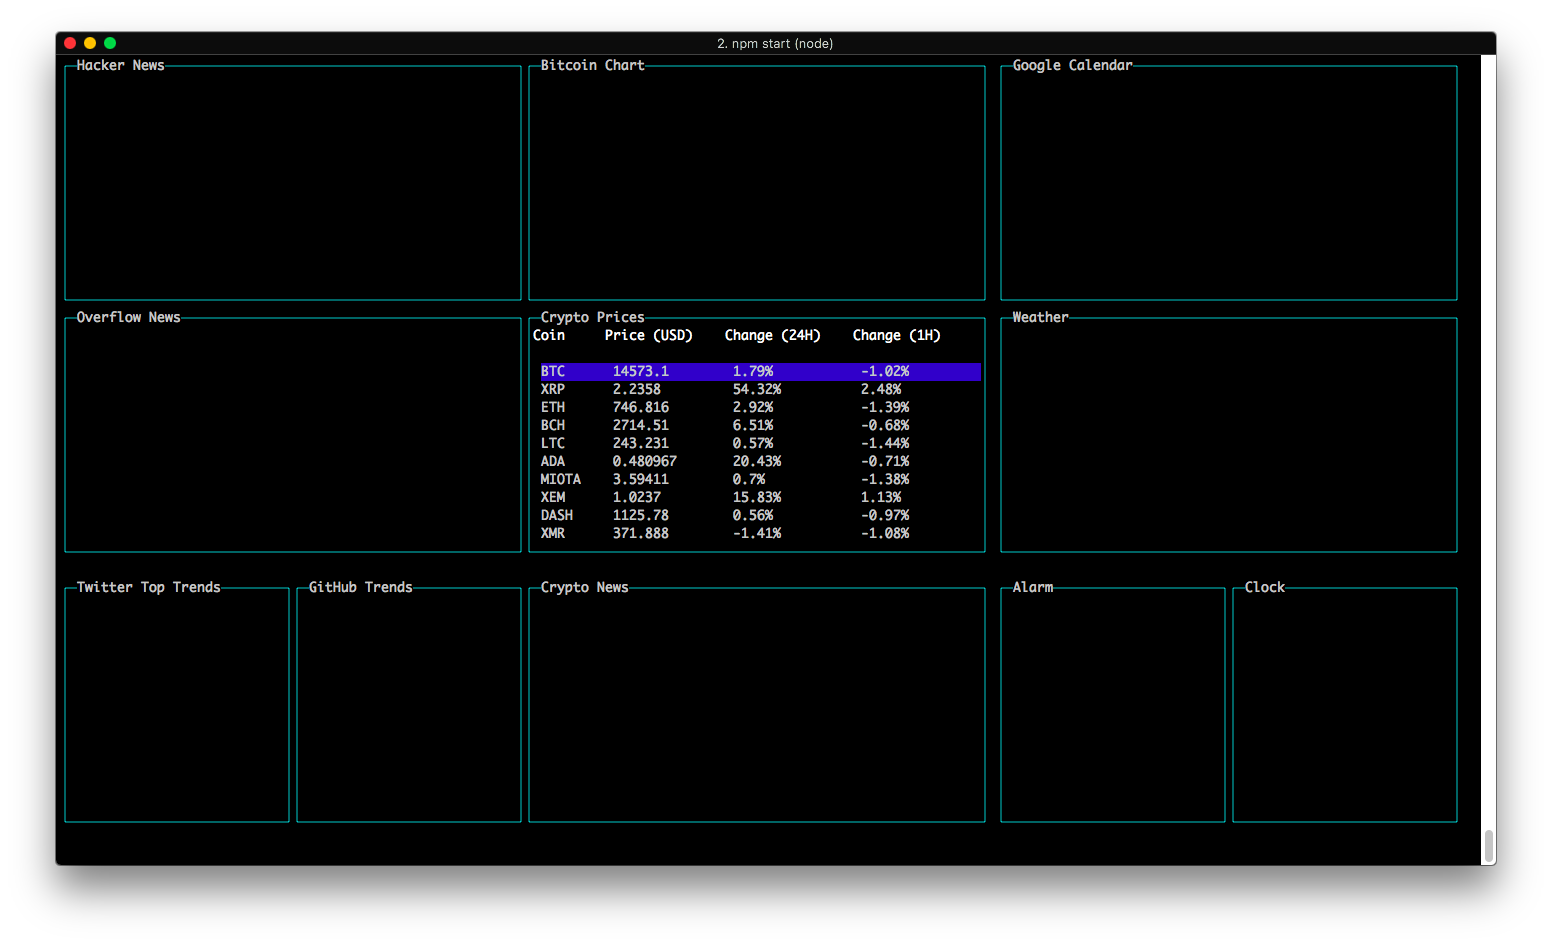
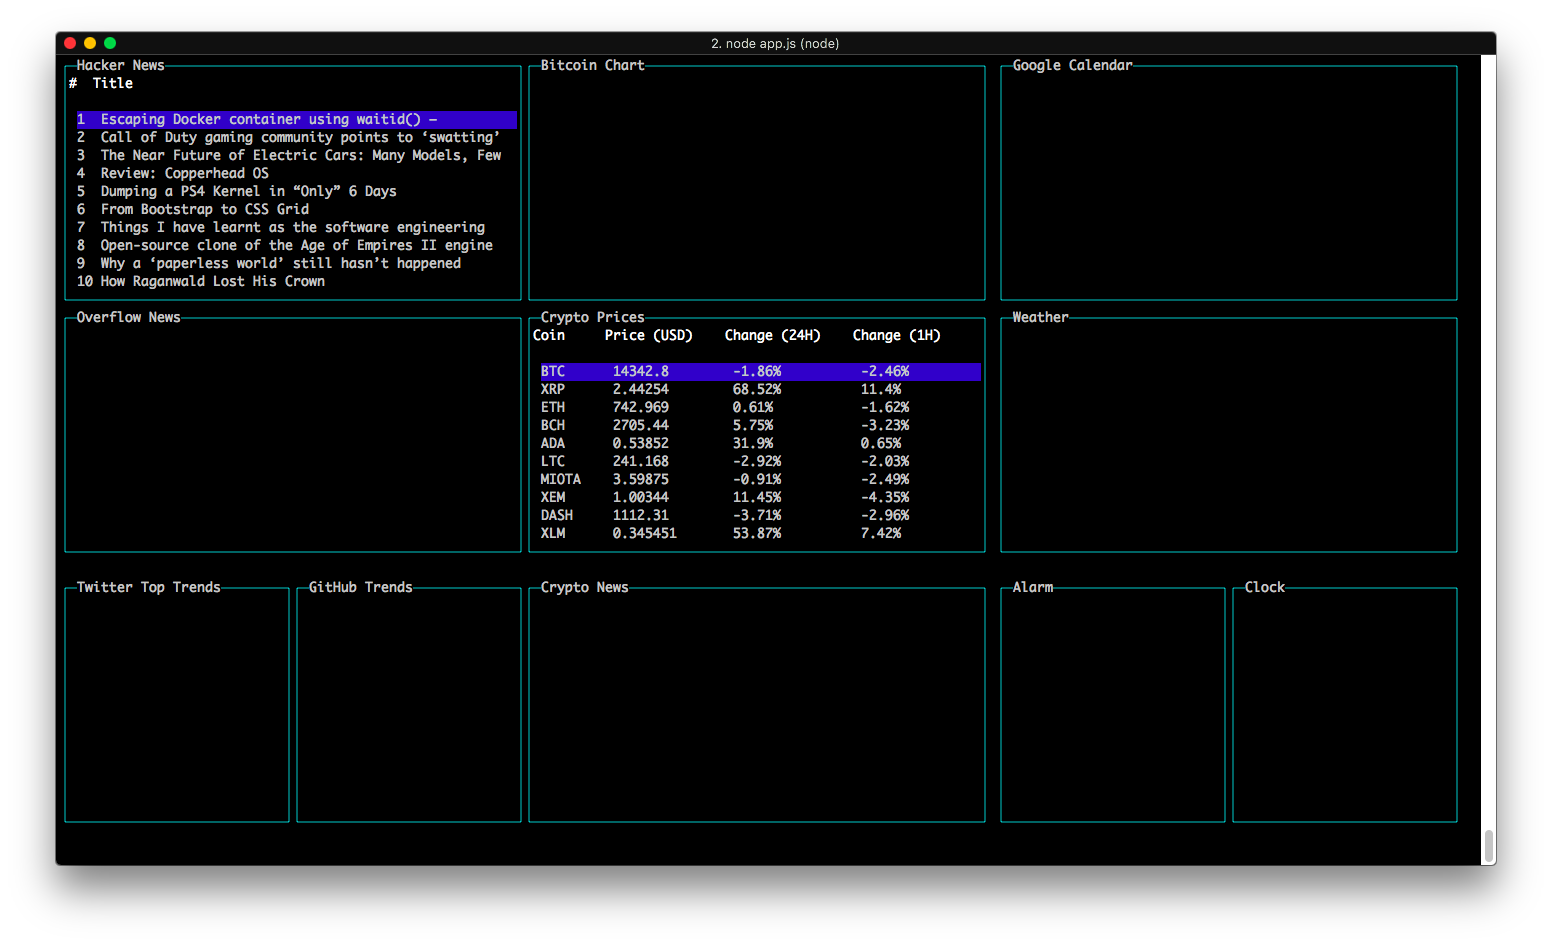
Add HackerNews Module

diff --git a/app.js b/app.js
@@ -8,7 +8,17 @@ const screen = blessed.screen();
 const grid = new contrib.grid({rows: 12, cols: 12, screen: screen});
 
 // News column
-grid.set(0, 0, 4, 4, blessed.box, {label: 'Hacker News'});
+const hackerNews = grid.set(0, 0, 4, 4, contrib.table, config.hackerNews);
+
+lib.hackerNews.get(function(data) {
+  hackerNews.setData({
+    headers: ['#', 'Title'],
+    data: data
+  });
+  hackerNews.focus();
+  screen.render();
+});
+
 grid.set(4, 0, 4, 4, blessed.box, {label: 'Overflow News'});
 grid.set(8, 0, 4, 2, blessed.box, {label: 'Twitter Top Trends'});
 grid.set(8, 2, 4, 2, blessed.box, {label: 'GitHub Trends'});
@@ -17,13 +27,14 @@ grid.set(8, 2, 4, 2, blessed.box, {label: 'GitHub Trends'});
 grid.set(0, 4, 4, 4, blessed.box, {label: 'Bitcoin Chart'});
 
 const cryptoPrices = grid.set(4, 4, 4, 4, contrib.table, config.cryptoPrices);
-lib.cryptoPrices.getPrices(function(data) {
-    cryptoPrices.setData({
-        headers: ['Coin', 'Price (USD)', 'Change (24H)', 'Change (1H)'],
-        data: data
-    });
-    cryptoPrices.focus();
-    screen.render();
+
+lib.cryptoPrices.get(function(data) {
+  cryptoPrices.setData({
+    headers: ['Coin', 'Price (USD)', 'Change (24H)', 'Change (1H)'],
+    data: data
+  });
+  cryptoPrices.focus();
+  screen.render();
 });
 
 grid.set(8, 4, 4, 4, blessed.box, {label: 'Crypto News'});
@@ -35,7 +46,7 @@ grid.set(8, 8, 4, 2, blessed.box, {label: 'Alarm'});
 grid.set(8, 10, 4, 2, blessed.box, {label: 'Clock'});
 
 screen.key(['escape', 'q', 'C-c'], function (ch, key) {
-    return process.exit(0);
+  return process.exit(0);
 });
 
 screen.render();

diff --git a/lib/hackerNews.js b/lib/hackerNews.js
@@ -1,0 +1,45 @@
+const axios = require('axios');
+const async = require('async');
+
+function fetchStories(callback) {
+  axios.get('https://hacker-news.firebaseio.com/v0/topstories.json')
+  .then(function(response) {
+    let topStories = [];
+
+    for (var i = 0; i < 15; i++) {
+      topStories.push(response.data[i]);
+    }
+
+    callback(null, topStories);
+  });
+}
+
+function fetchStoryDetails(storyNumber, callback) {
+  axios.get('https://hacker-news.firebaseio.com/v0/item/' + storyNumber + '.json')
+  .then(function(response) {
+    callback(null, response.data);
+  });
+}
+
+module.exports = {
+  get: function(callback) {
+    async.waterfall([
+      (cb) => fetchStories(cb),
+      (topStories, cb) => {
+        let parallelFunctions = [];
+
+        topStories.forEach(function(story) {
+          parallelFunctions.push((done) => fetchStoryDetails(story, done));
+        });
+
+        async.parallelLimit(parallelFunctions, 10, cb);
+      }
+    ], function(error, results) {
+      const stories = results.map(function(data, index) {
+        return [index + 1, data.title];
+      });
+
+      callback(stories);
+    });
+  }
+};

diff --git a/lib/cryptoPrices.js b/lib/cryptoPrices.js
@@ -1,7 +1,7 @@
 const axios = require('axios');
 
 module.exports = {
-  getPrices: function(callback) {
+  get: function(callback) {
     axios.get('https://api.coinmarketcap.com/v1/ticker/?limit=15')
     .then(function(response) {
       const coins = response.data.map(function(coin) {
@@ -16,4 +16,4 @@ module.exports = {
       callback(coins);
     })
   }
-}
+};

diff --git a/config/hackerNews.js b/config/hackerNews.js
@@ -1,0 +1,11 @@
+module.exports = {
+  keys: true,
+  fg: 'white',
+  selectedFg: 'white',
+  selectedBg: 'blue',
+  interactive: true,
+  label: 'Hacker News',
+  border: {type: "line", fg: "cyan"},
+  columnSpacing: 2,
+  columnWidth: [2, 58]
+};

diff --git a/config/index.js b/config/index.js
@@ -1,5 +1,7 @@
 const cryptoPrices = require('./cryptoPrices.js');
+const hackerNews = require('./hackerNews.js');
 
 module.exports = {
-  cryptoPrices: cryptoPrices
+  cryptoPrices,
+  hackerNews
 };

diff --git a/lib/index.js b/lib/index.js
@@ -1,5 +1,7 @@
 const cryptoPrices = require('./cryptoPrices.js');
+const hackerNews = require('./hackerNews.js');
 
 module.exports = {
-  cryptoPrices: cryptoPrices
+  cryptoPrices,
+  hackerNews
 };
